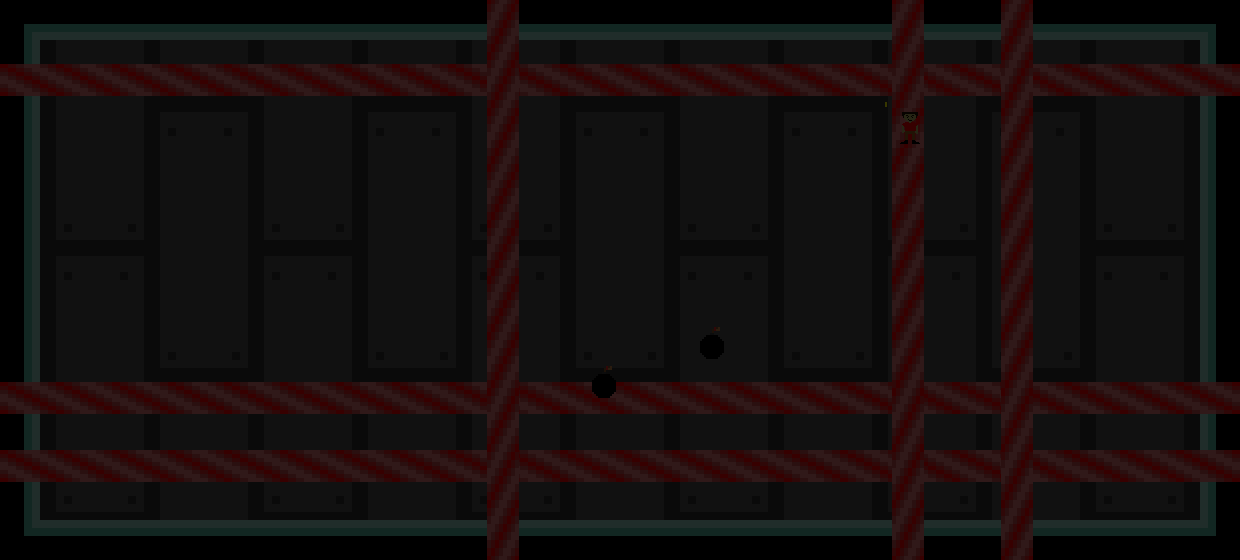
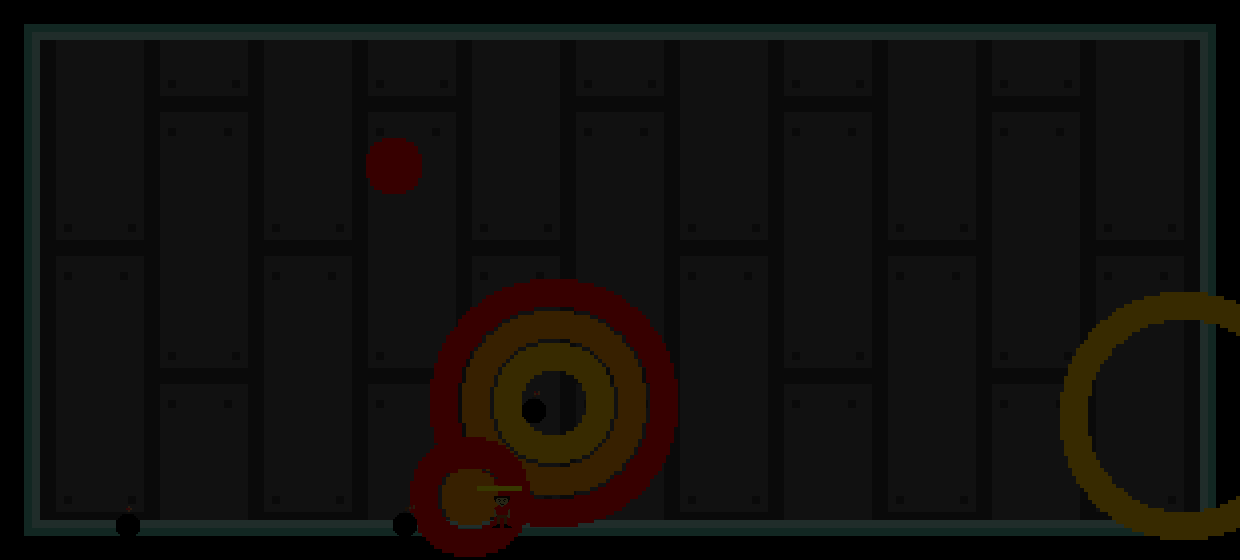
finalised stuff

Changed region(s): [[0.0, 0.0, 1.0, 1.0], [0.2758, 0.2429, 0.3371, 0.3643], [0.0919, 0.9107, 0.1226, 0.9714]]

diff --git a/assignment/Main_game_V6.py b/assignment/Main_game_V6.py
@@ -90,6 +90,10 @@ def leave_leadeboard():
     global title, leaderboard
     title = True
     leaderboard = False
+def unpause():
+    global pause, playing
+    pause = False
+    playing = True
 
 #player variables
 player_img = pygame.image.load("assignment/pictures/the guy.png")
@@ -216,7 +220,7 @@ while running:
 
         keypress = pygame.key.get_pressed()
 
-        #Lets you jumo over lasers
+        #Lets you jump over lasers
         if keypress[pygame.K_SPACE] and jump == False:
             jump_time = pygame.time.get_ticks()
             jump = True
@@ -277,12 +281,9 @@ while running:
 
     if pause:
         screen.blit(surface, (0, 0))
-        keypress = pygame.key.get_pressed()
-        if keypress[pygame.K_p]:
-            pause = False
-            playing = True
         #Makes sure the game knows how long you have been paused for
         pause_time = pygame.time.get_ticks() - play_time - start_time
+        button("RESUME", 500, 200, 240, 70, (100, 100, 100), (200, 200, 200), unpause)
         button("QUIT", 500, 400, 240, 70, (100, 100, 100), (200, 200, 200), quit)
 
     if death:
